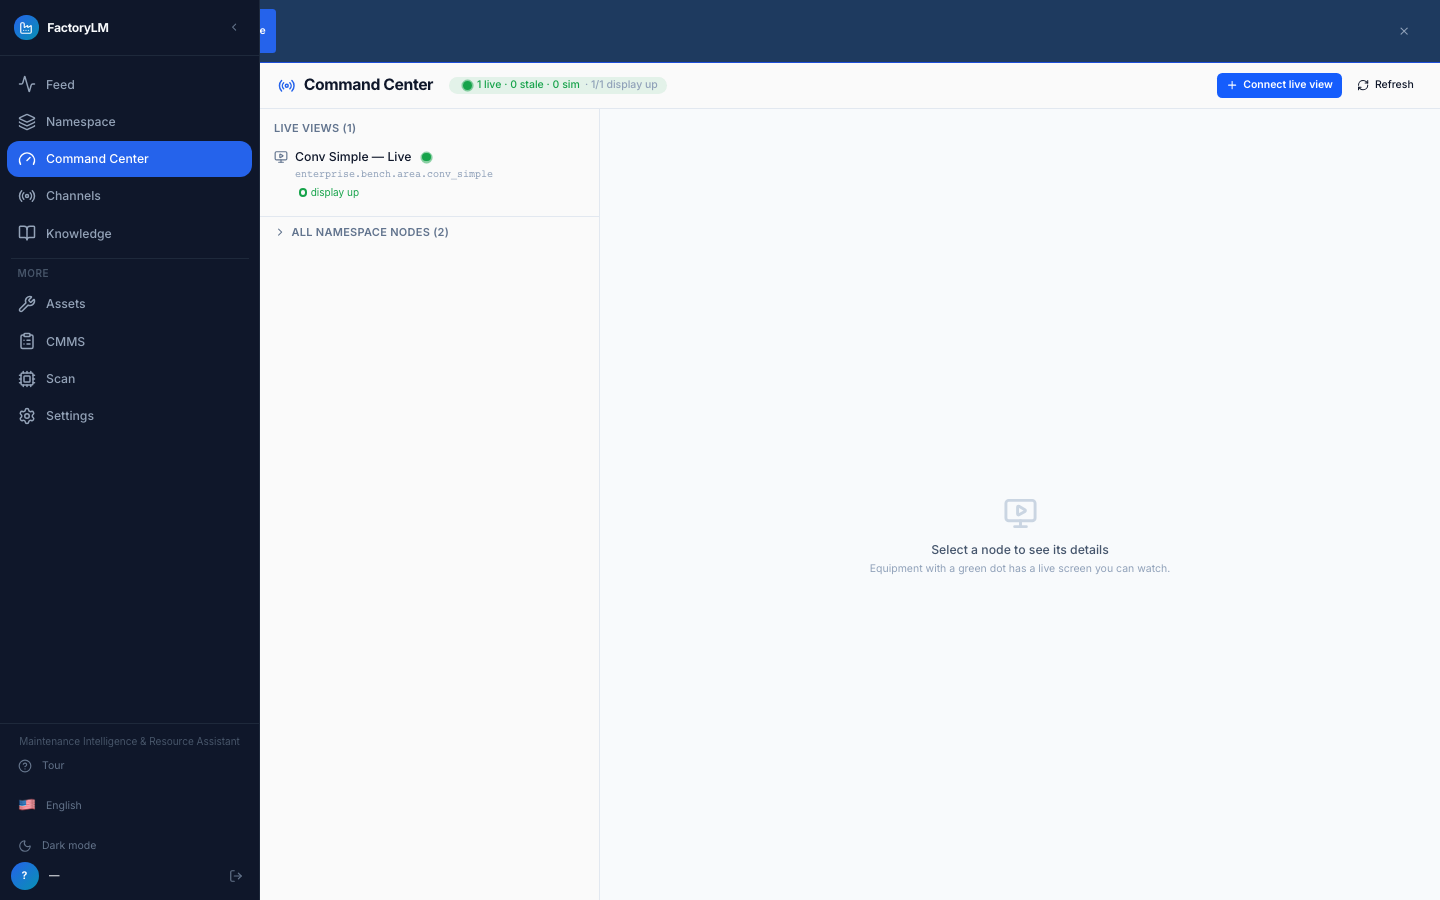
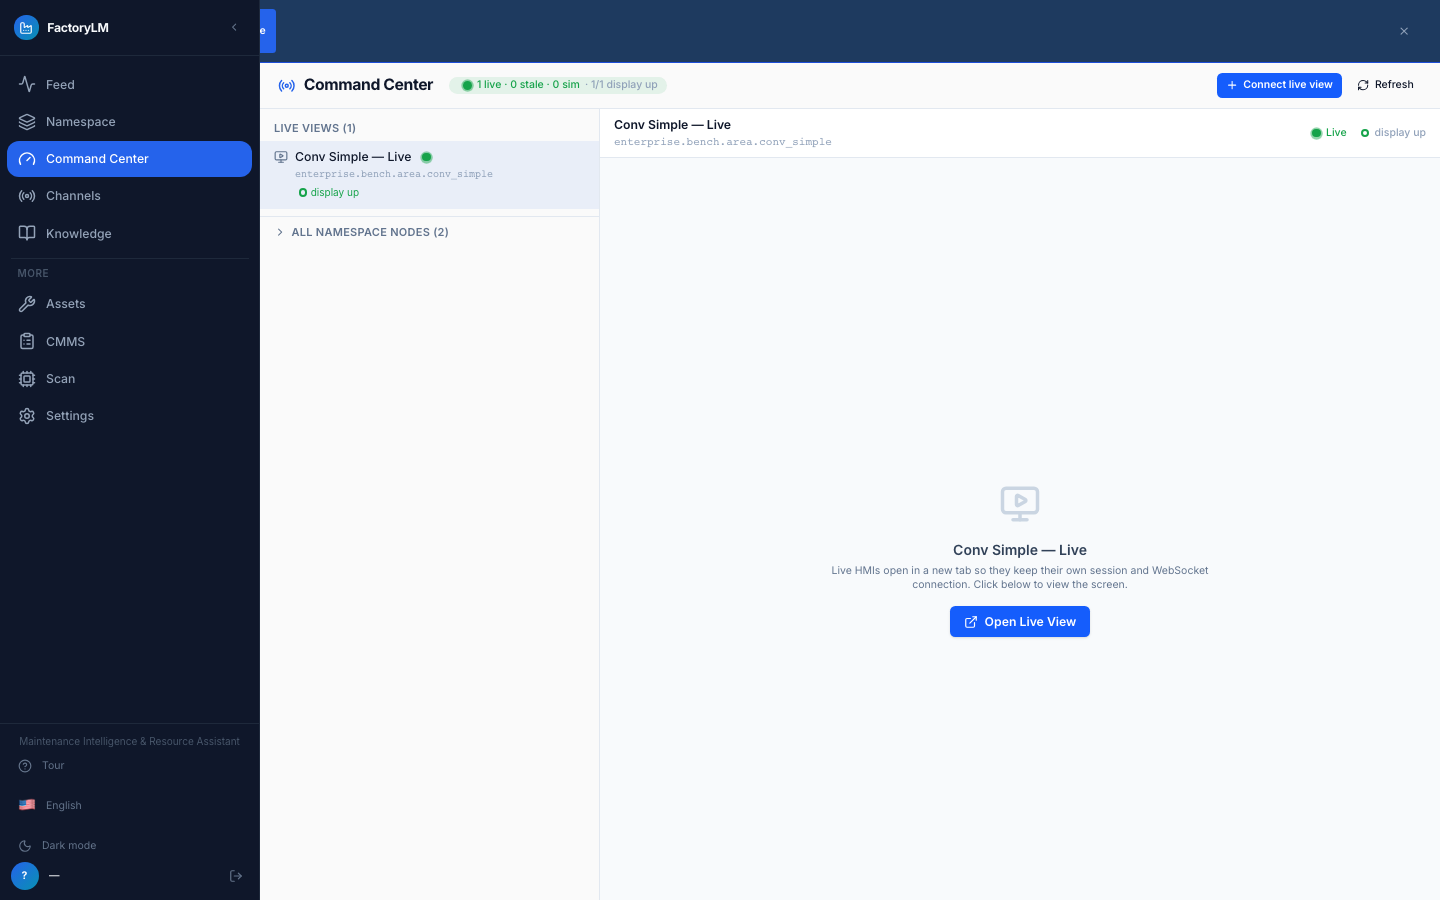
fix(hub): address PR #1960 review — auto-select, env docs, script locale
Review follow-ups (all non-blocking nits the reviewer flagged):
- Command Center auto-selects the first configured live view on first load
  (once, via ref — never overrides a user selection or re-fires on the 10s
  poll), so the "Open Live View" handoff is visible immediately instead of a
  bare "Select a node". e2e assertions relaxed to .first() where the label /
  "display up|down" now legitimately render in both the list and the
  auto-selected viewer header (5/5 still green).
- Documented COMMAND_CENTER_DISPLAY_HOST_ALLOWLIST (+ CSP_FRAME_SRC_DISPLAY_HOSTS)
  in docs/env-vars.md, with the prod-SSRF-lockdown note and the #578 context.
- verify-display-register-roundtrip.sh now exports LC_ALL=C itself so it doesn't
  fail on macOS ("postmaster became multithreaded during startup").

Changed region(s): [[0.5938, 0.5289, 0.8438, 0.7156], [0.9062, 0.1244, 0.9688, 0.1556], [0.4375, 0.1244, 0.5, 0.1556]]

diff --git a/mira-hub/src/app/(hub)/command-center/page.tsx b/mira-hub/src/app/(hub)/command-center/page.tsx
@@ -1,6 +1,6 @@
 "use client";
 
-import { useCallback, useEffect, useMemo, useState } from "react";
+import { useCallback, useEffect, useMemo, useRef, useState } from "react";
 import {
   ChevronDown, ChevronRight,
   Folder, FolderOpen, Cog, Factory, FileText, Layers,
@@ -69,6 +69,8 @@ export default function CommandCenterPage() {
   // The full namespace tree (incl. audit/test nodes) is demoted behind this
   // toggle so the default view leads with configured live views, not 117 nodes.
   const [showAllNodes, setShowAllNodes] = useState(false);
+  // Auto-select the first configured display once, on first load.
+  const autoSelectedRef = useRef(false);
 
   const refresh = useCallback(async () => {
     try {
@@ -77,6 +79,17 @@ export default function CommandCenterPage() {
       const json = (await res.json()) as TreeResponse;
       setData(json);
       setError(null);
+      // Land on the first live view so "Open Live View" is immediately visible
+      // instead of a bare "Select a node". Once only — never overrides a user's
+      // later selection or re-fires on the 10s poll.
+      if (!autoSelectedRef.current) {
+        const first = collectConfiguredDisplays(json.nodes)[0];
+        const node = first ? findById(json.nodes, first.nodeId) : null;
+        if (node) {
+          setSelected(node);
+          autoSelectedRef.current = true;
+        }
+      }
       // Expand the path to every display so live equipment is visible on load.
       setExpanded((prev) => {
         if (prev.size > 0) return prev;

diff --git a/mira-hub/tests/e2e/command-center.spec.ts b/mira-hub/tests/e2e/command-center.spec.ts
@@ -120,9 +120,10 @@ test("displays-first: Live Views leads, audit nodes are demoted, Open Live View 
 
   // Live Views section leads with the configured display.
   await expect(page.getByText(/Live Views \(1\)/)).toBeVisible({ timeout: 15_000 });
-  await expect(page.getByText("Conv Simple — Live")).toBeVisible();
+  await expect(page.getByText("Conv Simple — Live").first()).toBeVisible();
   // exact: the header summary also contains "…display up" ("1/1 display up").
-  await expect(page.getByText("display up", { exact: true })).toBeVisible();
+  // first: the auto-selected viewer header also renders "display up".
+  await expect(page.getByText("display up", { exact: true }).first()).toBeVisible();
   // The audit node is NOT in the default view (it's behind "All namespace nodes").
   await expect(page.getByText("Audit 0o494d 0O494D")).toHaveCount(0);
 
@@ -146,11 +147,11 @@ test("refresh keeps the configured display present", async ({ page, context, bas
     route.fulfill({ contentType: "application/json", body: JSON.stringify(treeWithDisplay(true)) }),
   );
   await page.goto("/command-center", { waitUntil: "domcontentloaded" });
-  await expect(page.getByText("Conv Simple — Live")).toBeVisible({ timeout: 15_000 });
+  await expect(page.getByText("Conv Simple — Live").first()).toBeVisible({ timeout: 15_000 });
 
   await page.getByRole("button", { name: /Refresh/i }).click();
   // Still present after an explicit refresh (re-fetch returns the same row).
-  await expect(page.getByText("Conv Simple — Live")).toBeVisible();
+  await expect(page.getByText("Conv Simple — Live").first()).toBeVisible();
   await expect(page.getByText(/Live Views \(1\)/)).toBeVisible();
 });
 
@@ -163,8 +164,8 @@ test("down display stays listed and is marked down (configured, not missing)", a
   );
   await page.goto("/command-center", { waitUntil: "domcontentloaded" });
 
-  await expect(page.getByText("Conv Simple — Live")).toBeVisible({ timeout: 15_000 });
-  await expect(page.getByText("display down", { exact: true })).toBeVisible();
+  await expect(page.getByText("Conv Simple — Live").first()).toBeVisible({ timeout: 15_000 });
+  await expect(page.getByText("display down", { exact: true }).first()).toBeVisible();
 });
 
 test("empty state: onboarding CTA instead of an audit-node dump", async ({ page, context, baseURL }) => {

diff --git a/docs/env-vars.md b/docs/env-vars.md
@@ -56,3 +56,5 @@ Full reference. Top 10 are in `CLAUDE.md`; this file has all of them.
 | `HARDENING_LOCK_DIR` | tools/lead-hunter — directory for singleton lock file; default `/tmp` |
 | `HARDENING_ALERT_LOG` | tools/lead-hunter — JSONL alert log path; default `marketing/prospects/hardening-alerts.jsonl` |
 | `DISCORD_ALERT_WEBHOOK` | tools/lead-hunter — optional Discord webhook URL for degraded/failed runs |
+| `COMMAND_CENTER_DISPLAY_HOST_ALLOWLIST` | mira-hub — comma-separated exact hosts allowed as Command Center display targets (e.g. `127.0.0.1,192.168.1.20,100.72.2.99`). The tree route server-side-probes each registered display host; **set this in prod** to bound the SSRF surface of `POST /api/command-center/display` to known proxy/HMI origins. Unset = no restriction beyond the validator's link-local/metadata block (dev/bench). Interim control until #578 enables a true admin-role gate. |
+| `CSP_FRAME_SRC_DISPLAY_HOSTS` | mira-hub `src/middleware.ts` — comma-separated hosts added to the site-wide CSP `frame-src` allowlist (for any framed display surface). Distinct from the allowlist above: this governs what the browser may frame, not what may be registered. |